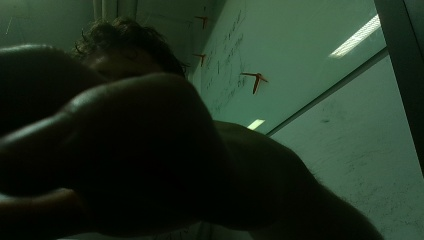
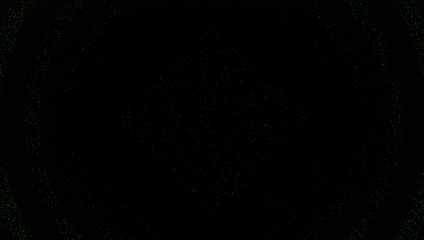
added plotting

diff --git a/src/image_controller4.py b/src/image_controller4.py
@@ -34,8 +34,14 @@ class ImageConverter:
 
         self.timestamps = []
         self.frequencies = []
+        self.rgb_latencies = []
+        self.depth_latencies = []
+        self.sync_offsets = []
 
         self.pipeline = rs.pipeline()
+        self.init_timestamp = None
+        self.init_rgb = None
+        self.init_depth = None
 
         t = threading.Thread(target=self.stream_camera)
         t.daemon = True
@@ -81,20 +87,21 @@ class ImageConverter:
             self.running = False
         # self.save_frequency_plot()
 
-    def calc_params(self, rgb_timestamp, depth_timestamp):
-        now = rospy.Time.now().to_sec()
-        rgb_stamp = rgb_timestamp * 1000
-        depth_stamp = depth_timestamp * 1000
+    def calc_params(self, rgb_image, depth_image):
+        now = (time.time() - self.init_timestamp)*1000
+        rgb_stamp = rgb_image.get_timestamp() - self.init_rgb
+        depth_stamp = depth_image.get_timestamp() - self.init_depth
 
-        #LATENCY
-        rospy.loginfo("RGB LATENCY: %s" % abs(rgb_stamp - now))
-        rospy.loginfo("DEPTH LATENCY: %s" % abs(depth_stamp - now))
+        rgb_latency = abs(rgb_stamp - now)
+        depth_latency = abs(depth_stamp - now)
+        sync_offset = abs(rgb_image.get_timestamp() - depth_image.get_timestamp())
 
-        #SYNC
-        # if abs(rgb_stamp - depth_stamp) > 0.1:
-        #     rospy.logwarn("SYNCHRONIZATION: %s" % abs(rgb_stamp - depth_stamp))
-        # else:
-        #     rospy.loginfo("SYNCHRONIZATION: %s" % abs(rgb_stamp - depth_stamp))
+        self.rgb_latencies.append(rgb_latency)
+        self.depth_latencies.append(depth_latency)
+        self.sync_offsets.append(sync_offset)
+
+        rospy.loginfo("RGB LATENCY: %s" % rgb_latency)
+        rospy.loginfo("DEPTH LATENCY: %s" % depth_latency)
 
     def save_frequency_plot(self):
         if len(self.timestamps) < 2:
@@ -131,16 +138,76 @@ class ImageConverter:
         )
         plt.savefig(self.results_path)
 
+    def save_latency_plot(self):
+        if len(self.timestamps) < 2:
+            rospy.logwarn("Not enough data to plot latency/sync.")
+            return
+
+        times = [t - self.timestamps[0] for t in self.timestamps]
+        print(times)
+
+        plt.figure(figsize=(12, 6))
+
+        avg_lat_rgb = np.mean(self.rgb_latencies)
+        avg_lat_depth = np.mean(self.depth_latencies)
+
+        plt.plot(times, self.rgb_latencies, label='RGB Latency (ms)', color='green')
+        plt.plot(times, self.depth_latencies, label='Depth Latency (ms)', color='orange')
+        plt.axhline(avg_lat_rgb, color='red', linestyle='--', label='Average RGB Latency: %.2f ms' % avg_lat_rgb)
+        plt.axhline(avg_lat_depth, color='red', linestyle='--', label='Average Depth Latency: %.2f ms' % avg_lat_depth)
+
+        plt.xlabel("Time (s)")
+        plt.ylabel("Miliseconds")
+        plt.title("Latency Over Time")
+        plt.grid(True)
+        plt.legend()
+
+        plot_path = os.path.join(
+            rospkg.RosPack().get_path('rico_human_detection'),
+            'include', 'rico_human_detection', 'latency_plot_cable.png'
+        )
+        plt.savefig(plot_path)
+
+    def save_sync_plot(self):
+        if len(self.timestamps) < 2:
+            rospy.logwarn("Not enough data to plot latency/sync.")
+            return
+
+        times = [t - self.timestamps[0] for t in self.timestamps]
+
+        plt.figure(figsize=(12, 6))
+
+        avg_sync = np.mean(self.sync_offsets[3:])
+
+        plt.plot(times[3:], self.sync_offsets[3:], label='Sync Offset (ms)', color='purple')
+        plt.axhline(avg_sync, color='red', linestyle='--', label='Average Sync Offset: %.2f ms' % avg_sync)
+
+        plt.xlabel("Time (s)")
+        plt.ylabel("Miliseconds")
+        plt.title("Synchronization Over Time")
+        plt.grid(True)
+        plt.legend()
+
+        plot_path = os.path.join(
+            rospkg.RosPack().get_path('rico_human_detection'),
+            'include', 'rico_human_detection', 'sync_plot_cable.png'
+        )
+        plt.savefig(plot_path)
+
     def capture_frames(self):
         if self.first:
             self.first = False
-            time.sleep(2)
+            frames = self.pipeline.wait_for_frames()
+            rgb = frames.get_color_frame()
+            depth = frames.get_depth_frame()
+            self.init_rgb = rgb.get_timestamp()
+            self.init_depth = depth.get_timestamp()
+            self.init_timestamp = time.time()
+            return None, None
         try:
             frames = self.pipeline.wait_for_frames()
             rgb = frames.get_color_frame()
             depth = frames.get_depth_frame()
-            rgb_timestamp = rgb.get_timestamp()
-            depth_timestamp = depth.get_timestamp()
 
             rgb_array = np.asanyarray(rgb.get_data())
             depth_array = np.asanyarray(depth.get_data())
@@ -149,10 +216,10 @@ class ImageConverter:
             if not rgb or not depth:
                 rospy.logwarn("Incomplete frames received.")
                 return None, None, None, None
-            return rgb_array, depth_array, rgb_timestamp, depth_timestamp
+            return rgb, depth
         except Exception as e:
             rospy.logerr("Frame capture failed: %s", e)
-            return None, None, None, None
+            return None, None
 
     def create_message(self, depth_image, flag):
         msg = Coordinates()
@@ -170,8 +237,12 @@ class ImageConverter:
         self.flag = response.flag
 
     def process_frame(self, rgb_image, depth_image):
+        
+        self.calc_params(rgb_image, depth_image)
 
         current_time = time.time()
+
+        depth_image = np.asanyarray(depth_image.get_data())
 
         if self.timestamps:
             delta = current_time - self.timestamps[-1]
@@ -205,16 +276,22 @@ def main(args):
     rospy.init_node('image_converter', anonymous=True)
     rospy.loginfo("View image node created")
     ic = ImageConverter()
-    rospy.on_shutdown(ic.shutdown)
+
+    def shutdown_hook():
+        rospy.loginfo("Shutting down, saving frequency plot...")
+        if ic.running:
+            rospy.loginfo("Stopping RealSense pipeline...")
+            ic.pipeline.stop()
+            ic.running = False
+        ic.save_frequency_plot()
+        ic.save_latency_plot()
+        ic.save_sync_plot()
+
+    rospy.on_shutdown(shutdown_hook)
 
     rate = rospy.Rate(60)
     while not rospy.is_shutdown():
-        start = time.time()
-        rgb_image, depth_image, rgb_timestamp, depth_timestamp = ic.capture_frames()
-        stop = time.time()
-        # print("RGB LATENCY: ", abs(stop - start)*1000, "ms")
-        # print("DEPTH LATENCY: ", abs(stop - start)*1000, "ms")
-        print("SYNCHRONIZATION: ", abs(rgb_timestamp - depth_timestamp)*1000, "ms")
+        rgb_image, depth_image = ic.capture_frames()
         if rgb_image is not None and depth_image is not None:
             ic.process_frame(rgb_image, depth_image)
         rate.sleep()

diff --git a/src/image_controller.py b/src/image_controller.py
@@ -30,6 +30,9 @@ class ImageConverter:
 
         self.timestamps = []
         self.frequencies = []
+        self.rgb_latencies = []
+        self.depth_latencies = []
+        self.sync_offsets = []
 
         package_path = rospkg.RosPack().get_path('rico_human_detection')
         self.path = os.path.join(package_path, 'include', 'rico_human_detection', 'camera.jpg')
@@ -74,19 +77,20 @@ class ImageConverter:
         self.flag = response.flag
 
     def calc_params(self, rgb_image, depth_image):
-        now = rospy.Time.now().to_sec()
-        rgb_stamp = rgb_image.header.stamp.to_sec()
-        depth_stamp = depth_image.header.stamp.to_sec()
+        now = rospy.Time.now().to_sec()*1000
+        rgb_stamp = rgb_image.header.stamp.to_sec()*1000
+        depth_stamp = depth_image.header.stamp.to_sec()*1000
 
-        #LATENCY
-        rospy.loginfo("RGB LATENCY: %s" % abs(rgb_stamp - now))
-        rospy.loginfo("DEPTH LATENCY: %s" % abs(depth_stamp - now))
+        rgb_latency = abs(rgb_stamp - now)
+        depth_latency = abs(depth_stamp - now)
+        sync_offset = abs(rgb_stamp - depth_stamp)
 
-        #SYNC
-        # if abs(rgb_stamp - depth_stamp) > 0.1:
-        #     rospy.logwarn("SYNCHRONIZATION: %s" % abs(rgb_stamp - depth_stamp))
-        # else:
-        #     rospy.loginfo("SYNCHRONIZATION: %s" % abs(rgb_stamp - depth_stamp))
+        self.rgb_latencies.append(rgb_latency)
+        self.depth_latencies.append(depth_latency)
+        self.sync_offsets.append(sync_offset)
+
+        rospy.loginfo("RGB LATENCY: %s" % rgb_latency)
+        rospy.loginfo("DEPTH LATENCY: %s" % depth_latency)
 
     def processing_loop(self):
         while not rospy.is_shutdown():
@@ -130,6 +134,62 @@ class ImageConverter:
             'include', 'rico_human_detection', 'processing_frequency.png'
         )
         plt.savefig(self.results_path)
+
+    def save_latency_plot(self):
+        if len(self.timestamps) < 2:
+            rospy.logwarn("Not enough data to plot latency/sync.")
+            return
+
+        times = [t - self.timestamps[0] for t in self.timestamps]
+
+        plt.figure(figsize=(12, 6))
+
+        avg_lat_rgb = np.mean(self.rgb_latencies)
+        avg_lat_depth = np.mean(self.depth_latencies)
+
+
+        plt.plot(times[:-3], self.rgb_latencies[:-3], label='RGB Latency (ms)', color='green')
+        plt.plot(times[:-3], self.depth_latencies[:-3], label='Depth Latency (ms)', color='orange')
+        plt.axhline(avg_lat_rgb, color='red', linestyle='--', label='Average RGB Latency: %.2f ms' % avg_lat_rgb)
+        plt.axhline(avg_lat_depth, color='red', linestyle='--', label='Average Depth Latency: %.2f ms' % avg_lat_depth)
+
+        plt.xlabel("Time (s)")
+        plt.ylabel("Miliseconds")
+        plt.title("Latency Over Time")
+        plt.grid(True)
+        plt.legend()
+
+        plot_path = os.path.join(
+            rospkg.RosPack().get_path('rico_human_detection'),
+            'include', 'rico_human_detection', 'latency_plot.png'
+        )
+        plt.savefig(plot_path)
+
+    def save_sync_plot(self):
+        if len(self.timestamps) < 2:
+            rospy.logwarn("Not enough data to plot latency/sync.")
+            return
+
+        times = [t - self.timestamps[0] for t in self.timestamps]
+
+        plt.figure(figsize=(12, 6))
+
+        avg_sync = np.mean(self.sync_offsets[3:])
+
+        plt.plot(times, self.sync_offsets[1:], label='Sync Offset (ms)', color='purple')
+        plt.axhline(avg_sync, color='red', linestyle='--', label='Average Sync Offset: %.2f ms' % avg_sync)
+
+        plt.xlabel("Time (s)")
+        plt.ylabel("Miliseconds")
+        plt.title("Synchronization Over Time")
+        plt.grid(True)
+        plt.legend()
+
+        plot_path = os.path.join(
+            rospkg.RosPack().get_path('rico_human_detection'),
+            'include', 'rico_human_detection', 'sync_plot.png'
+        )
+        plt.savefig(plot_path)
 
     def process_frame(self, rgb_image, depth_image):
 
@@ -183,8 +243,10 @@ def main(args):
     def shutdown_hook():
         rospy.loginfo("Shutting down, saving frequency plot...")
         ic.save_frequency_plot()
+        ic.save_latency_plot()
+        ic.save_sync_plot()
 
-    # rospy.on_shutdown(shutdown_hook)
+    rospy.on_shutdown(shutdown_hook)
 
     try:
         # rospy.spin()
